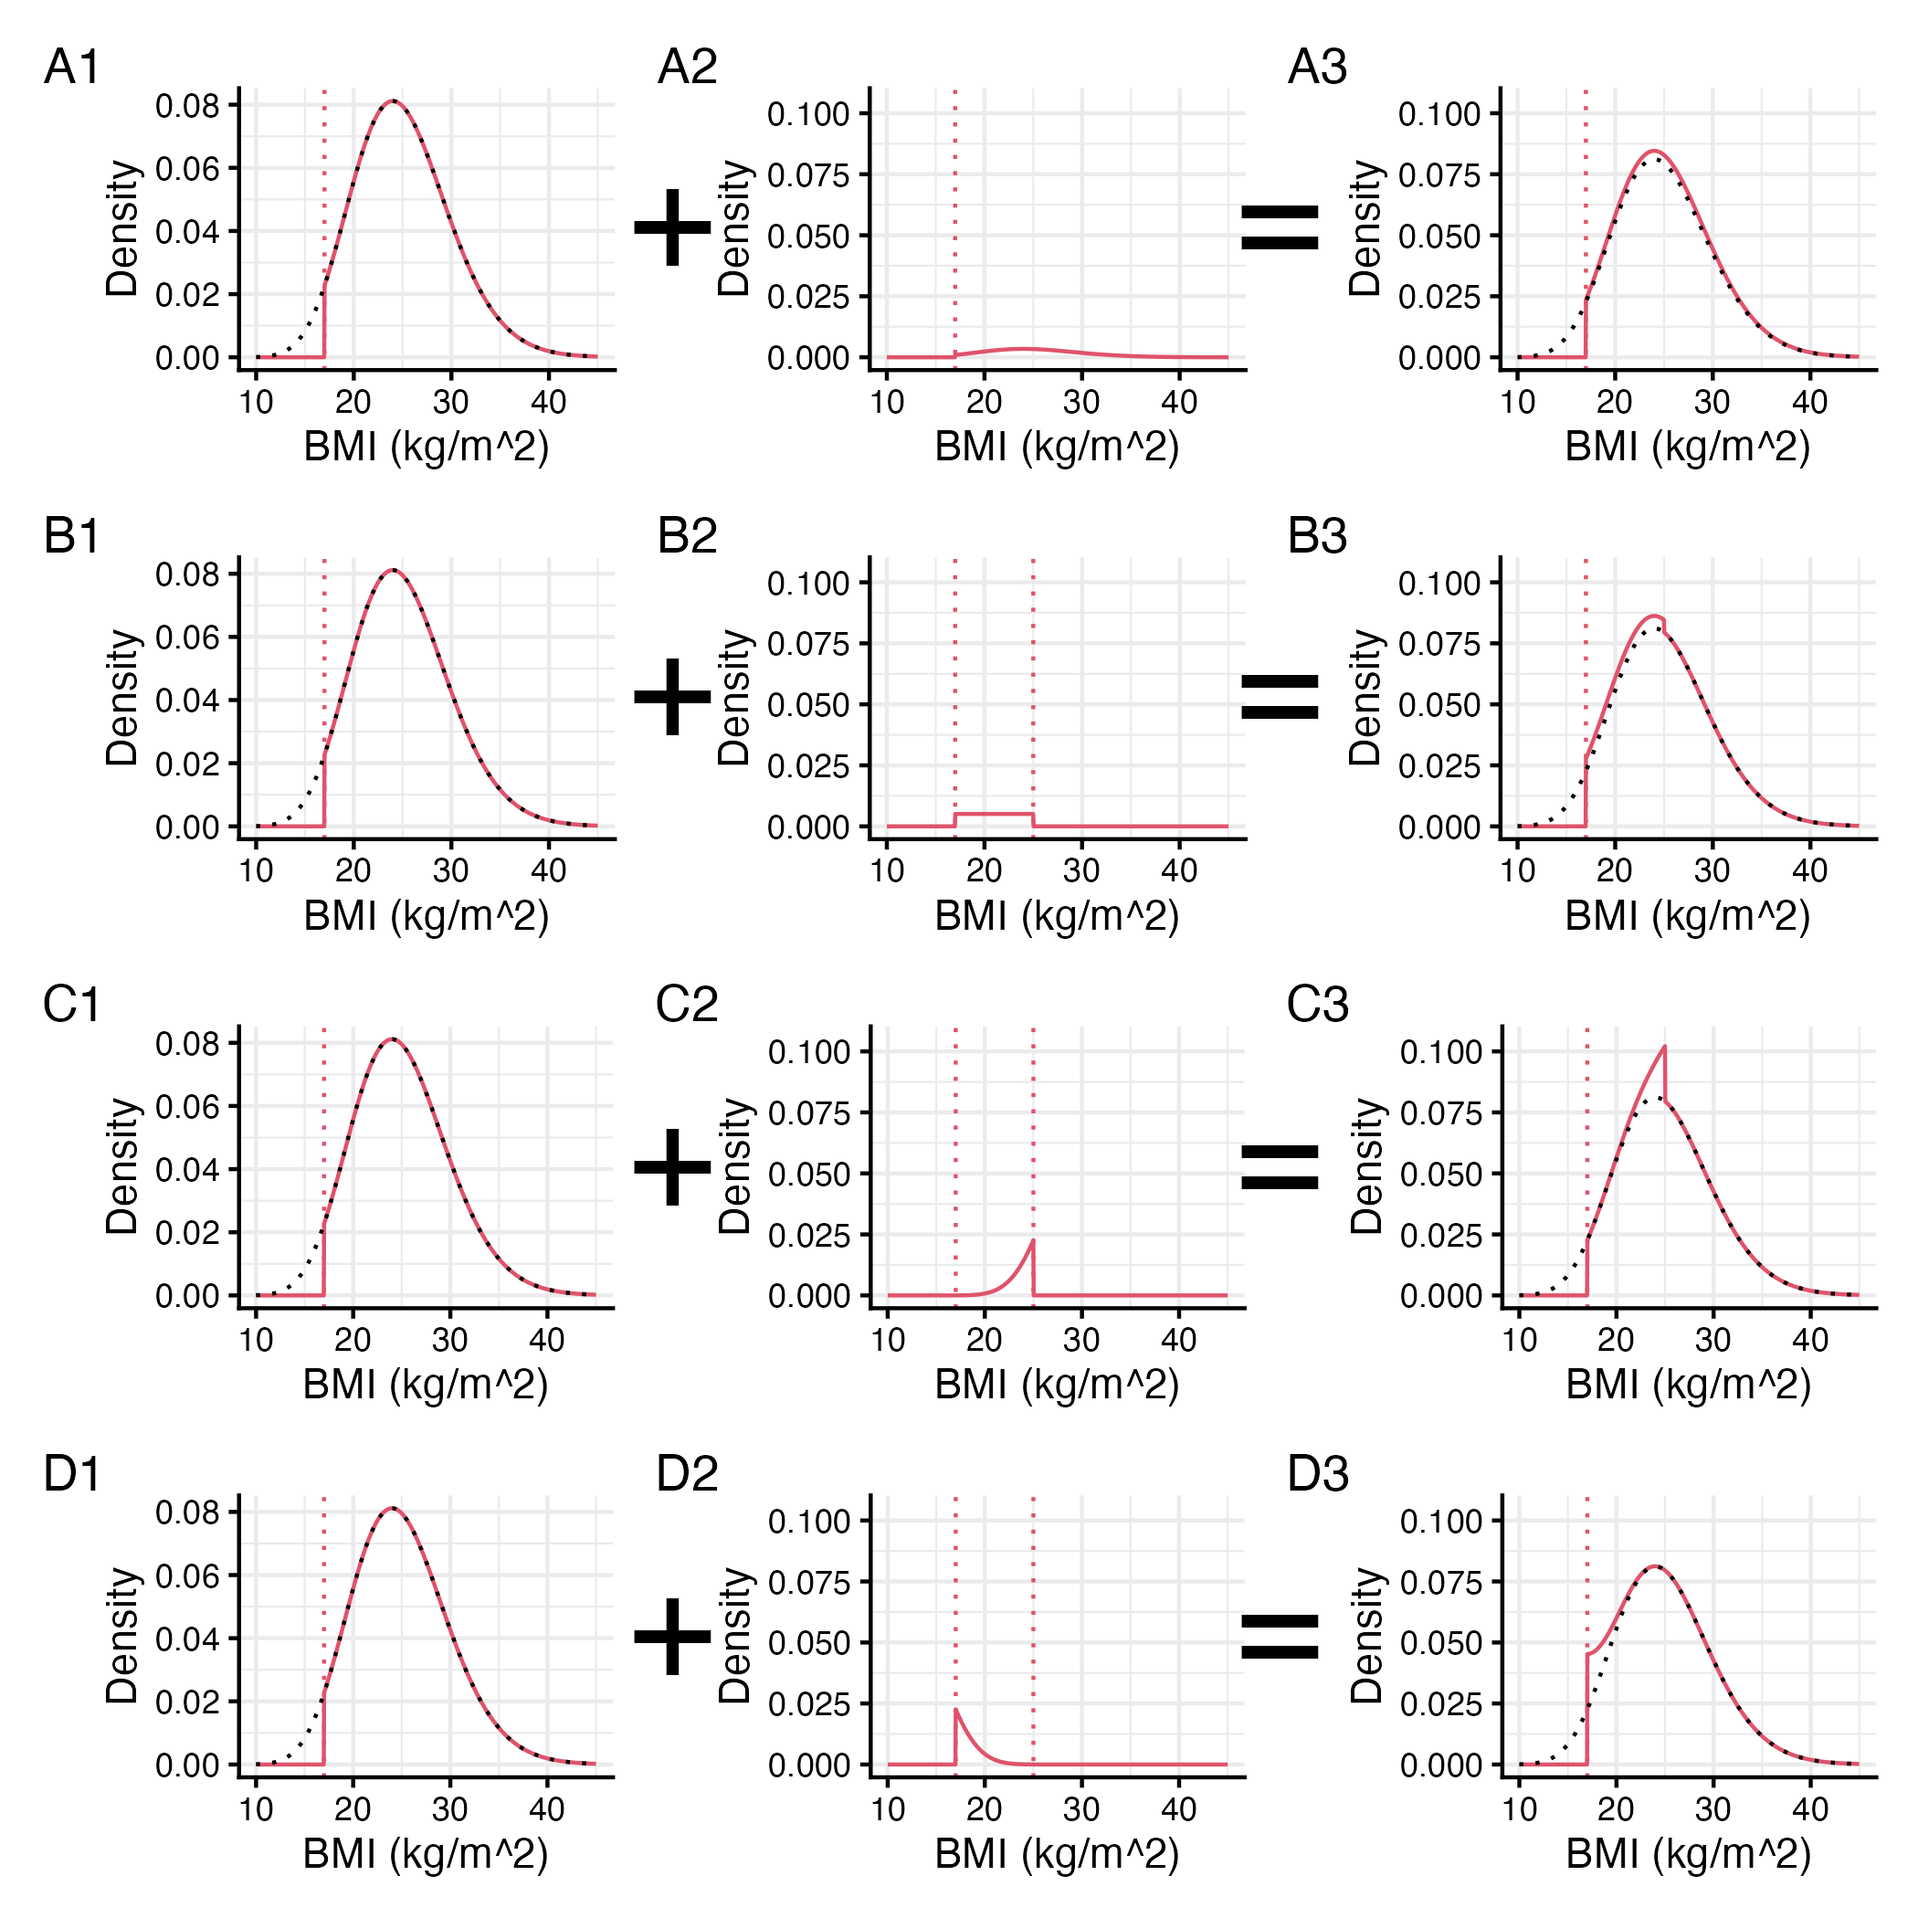
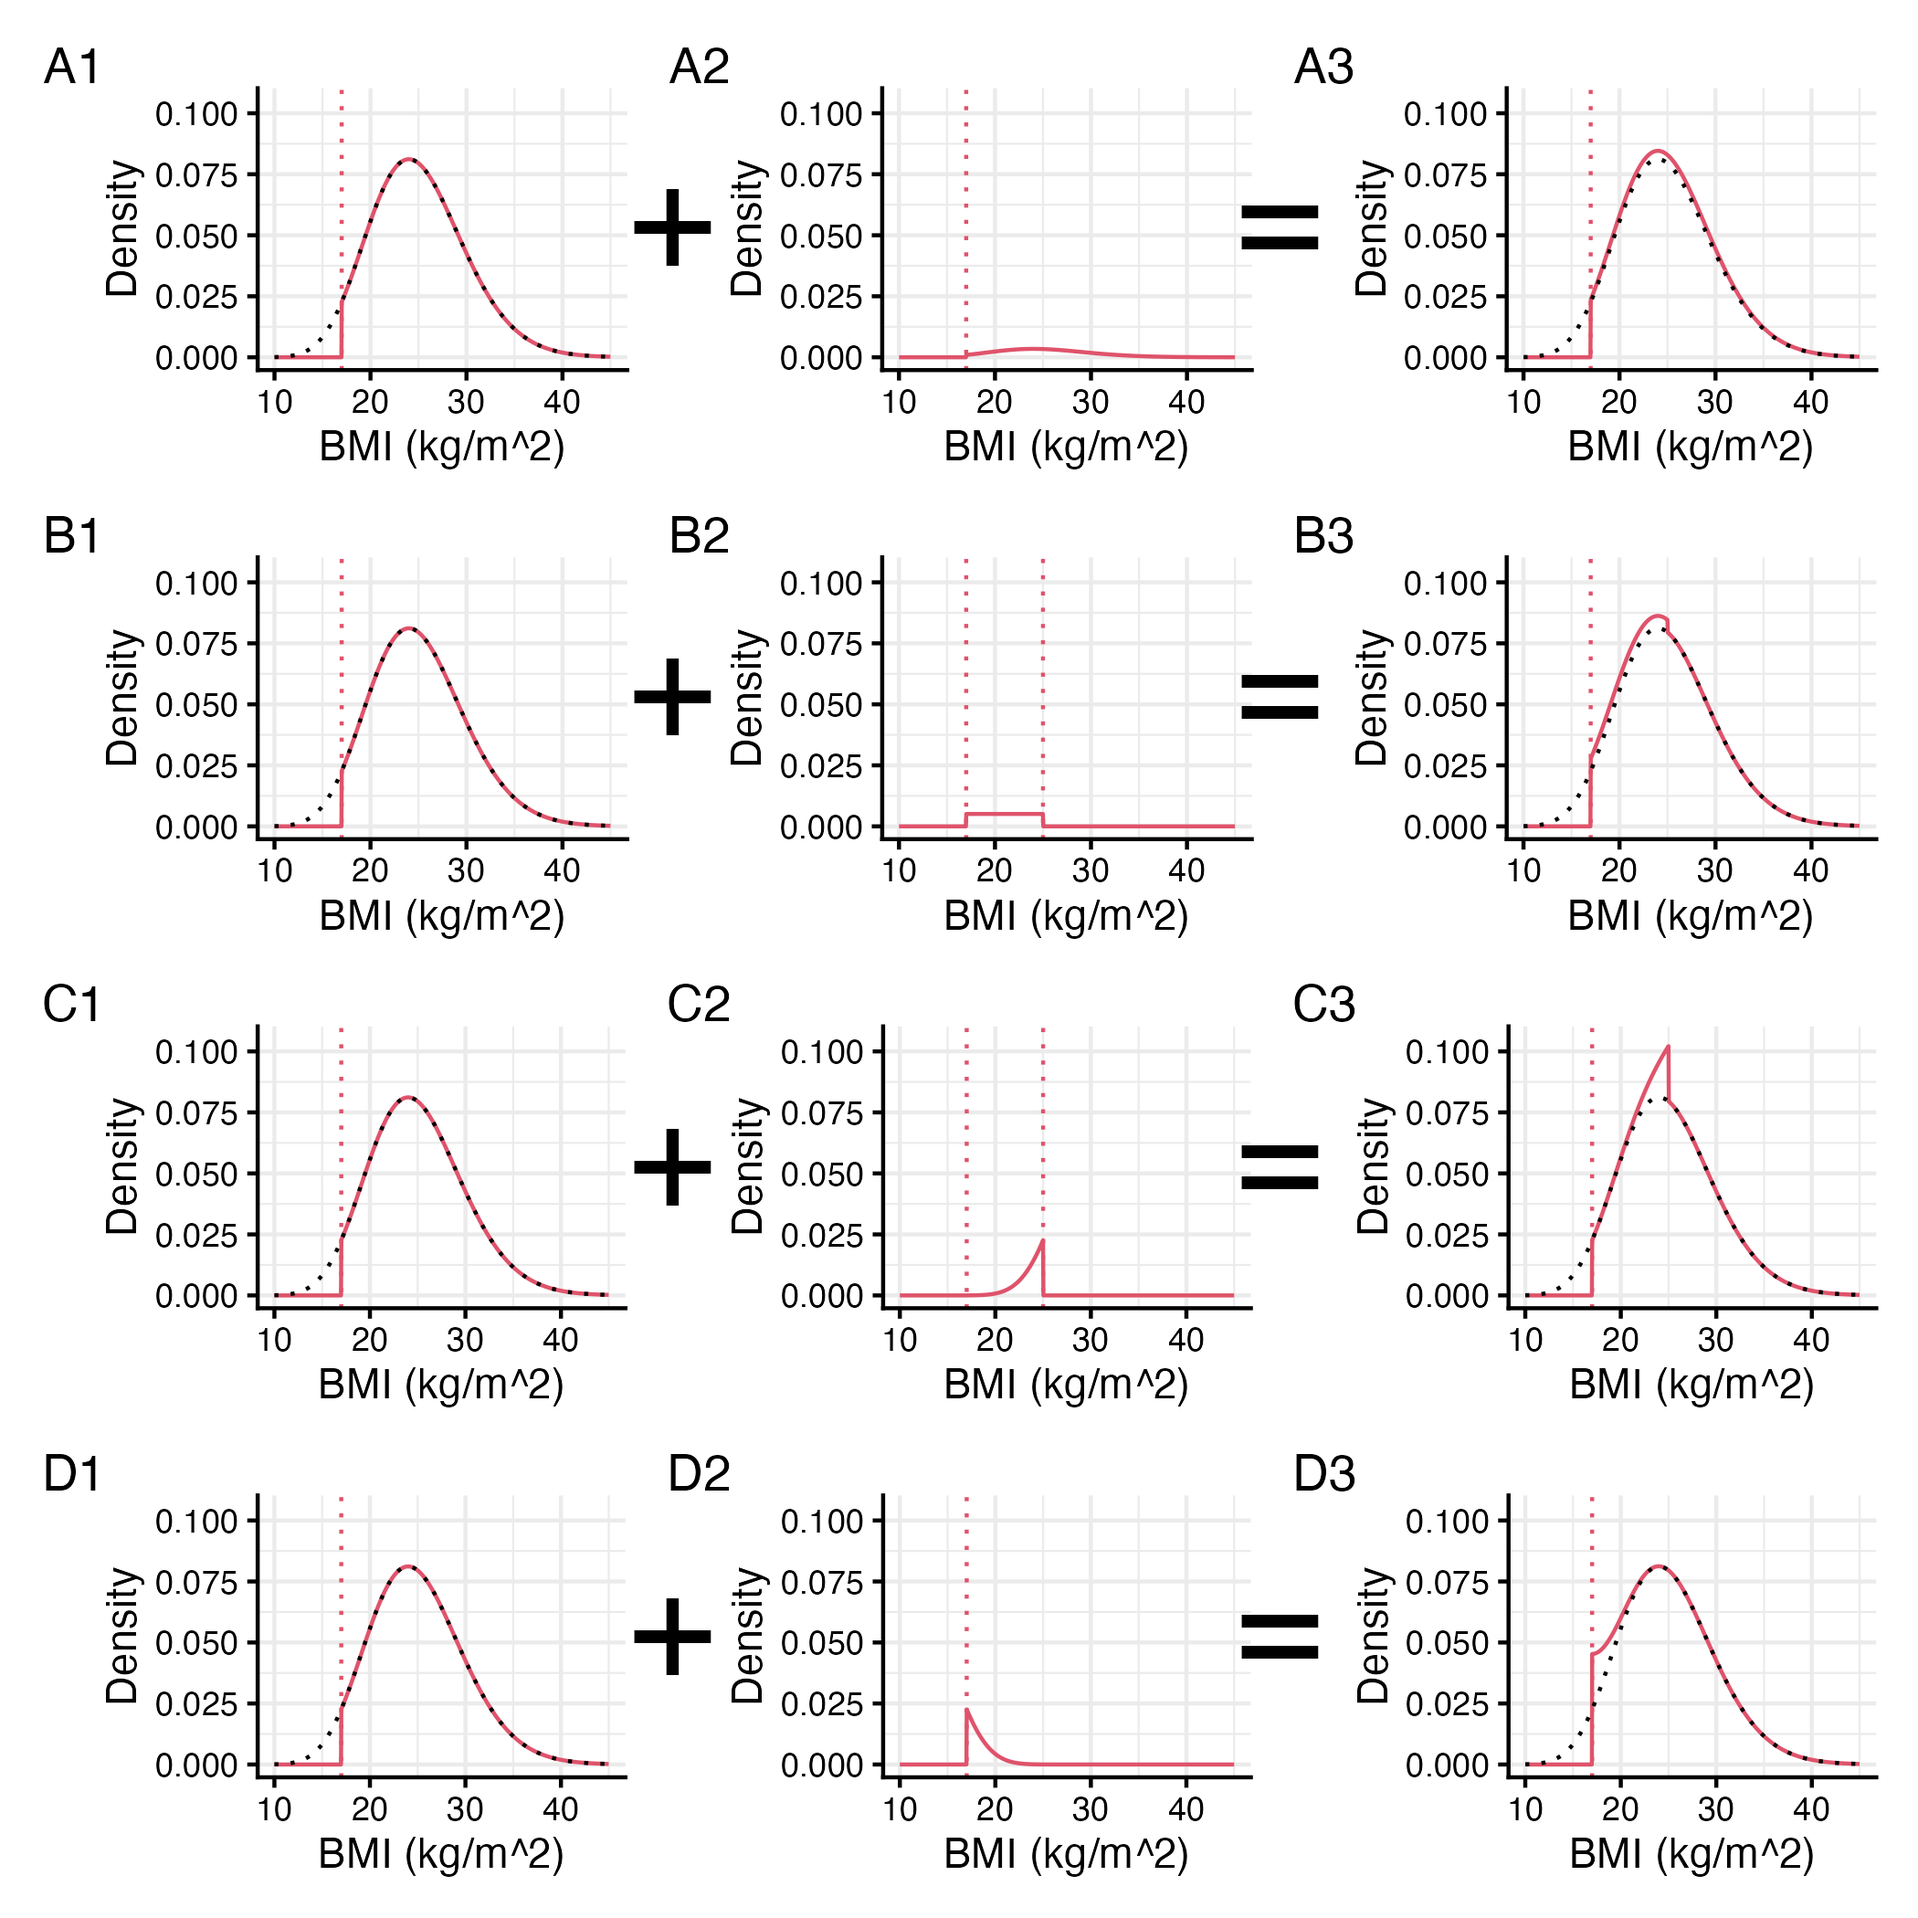
collating results, updating README

diff --git a/README.md b/README.md
@@ -1,5 +1,68 @@
 # bmitb
 BMI distributions &amp; TB
 
+## Software used in this analysis
+
+This analysis used R veresion 4.5.0 and the following packages:
+
+
+| Package | Version |
+|---------|---------|
+| data.table | 1.17.8 |
+| ggplot2 | 3.5.2 |
+| ggpubr | 0.6.1 |
+| ggrepel | 0.9.6 |
+| glue | 1.8.0 |
+| googlesheets4 | 1.1.1 |
+| here | 1.0.1 |
+| officer | 0.6.10 |
+| paletteer | 1.6.0 |
+| readxl | 1.4.5 |
+| rvg | 0.3.5 |
+| scales | 1.4.0 |
+| sf | 1.0-21 |
+| sp | 2.2-0 |
+| wbmapdata | 0.0.0.9000 |
+| MASS | 7.3-65 |
+
+These are available from CRAN excep `wbmapdata` which is available from https://github.com/petedodd/wbmapdata/
+
+
+## Data used in this analysis
+
 A single archive of the public input data to reproduce this analysis has been posted on Zenodo at:
 https://zenodo.org/records/16900137
+
+which includes data from the following sources.
+
+Estimates for 2022 of BMI by country, sex, and age from the NCD-RisC consortium,[^1] which were downloaded from https://ncdrisc.org/data-downloads-adiposity.html on 14/Feb/2024. 
+In particular, we used the files:
+
+- `NCD_RisC_Lancet_2024_BMI_child_adolescent_country.csv`
+- `NCD_RisC_Lancet_2024_BMI_female_age_specific_country.csv`
+- `NCD_RisC_Lancet_2024_BMI_male_age_specific_country.csv`
+
+[^1]: NCD Risk Factor Collaboration (NCD-RisC). Worldwide trends in underweight and obesity from 1990 to 2022: a pooled analysis of 3663 population-representative studies with 222 million children, adolescents, and adults. Lancet 2024; 403: 1027–50.
+
+
+For the adolescent group aged 15-19 years, we also made use of WHO reference tables to convert NCD-RisC estimates of z-scores into BMIs. These were downloaded from https://www.who.int/tools/growth-reference-data-for-5to19-years/indicators/bmi-for-age on 27/Nov/2023. In particular, we used the files:
+
+- `bmi-boys-z-who-2007-exp.xlsx`
+- `bmi-girls-z-who-2007-exp.xlsx`
+
+We used WHO estimates of TB incidence, which were downloaded from https://www.who.int/teams/global-programme-on-tuberculosis-and-lung-health/data on 30/Oct/2024. In particular, we used the files:
+
+- `TB_burden_age_sex_2024-10-30.csv`
+- `TB_notifications_2024-10-30.csv`
+
+We used World Population Prospects 2024 demographic estimates from the United Nations Population Division, downloaded from  https://population.un.org/wpp/ on 19/August/2025. These were aggregated into relevant age categories for 2023 and included as the file:
+
+- `N8523.Rdata`
+
+We also used coefficients and variance covariance matrices from the regression in Saunders et al.[^2]:
+
+- `general_population_vcov_matrix.csv`
+- `general_population_piecewise_parameters.csv`
+
+[^2]: Saunders MJ, Cegielski JP, Clark R, Houben RMGJ, McQuaid CF. Body mass index and tuberculosis risk – an updated systematic literature review and dose-response meta-analysis. Int J Epidemiol 2025; 54. DOI:10.1093/ije/dyaf154.
+
